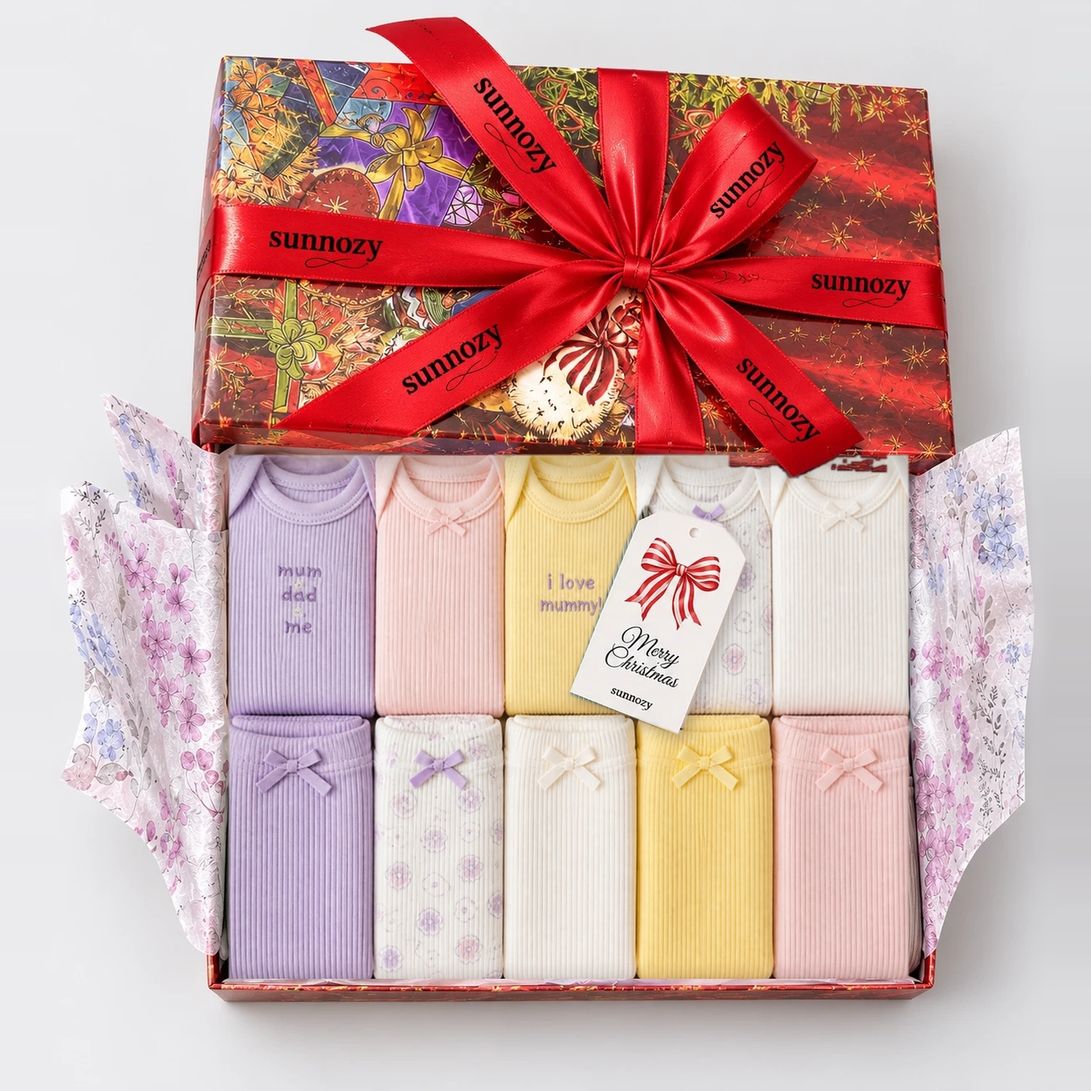
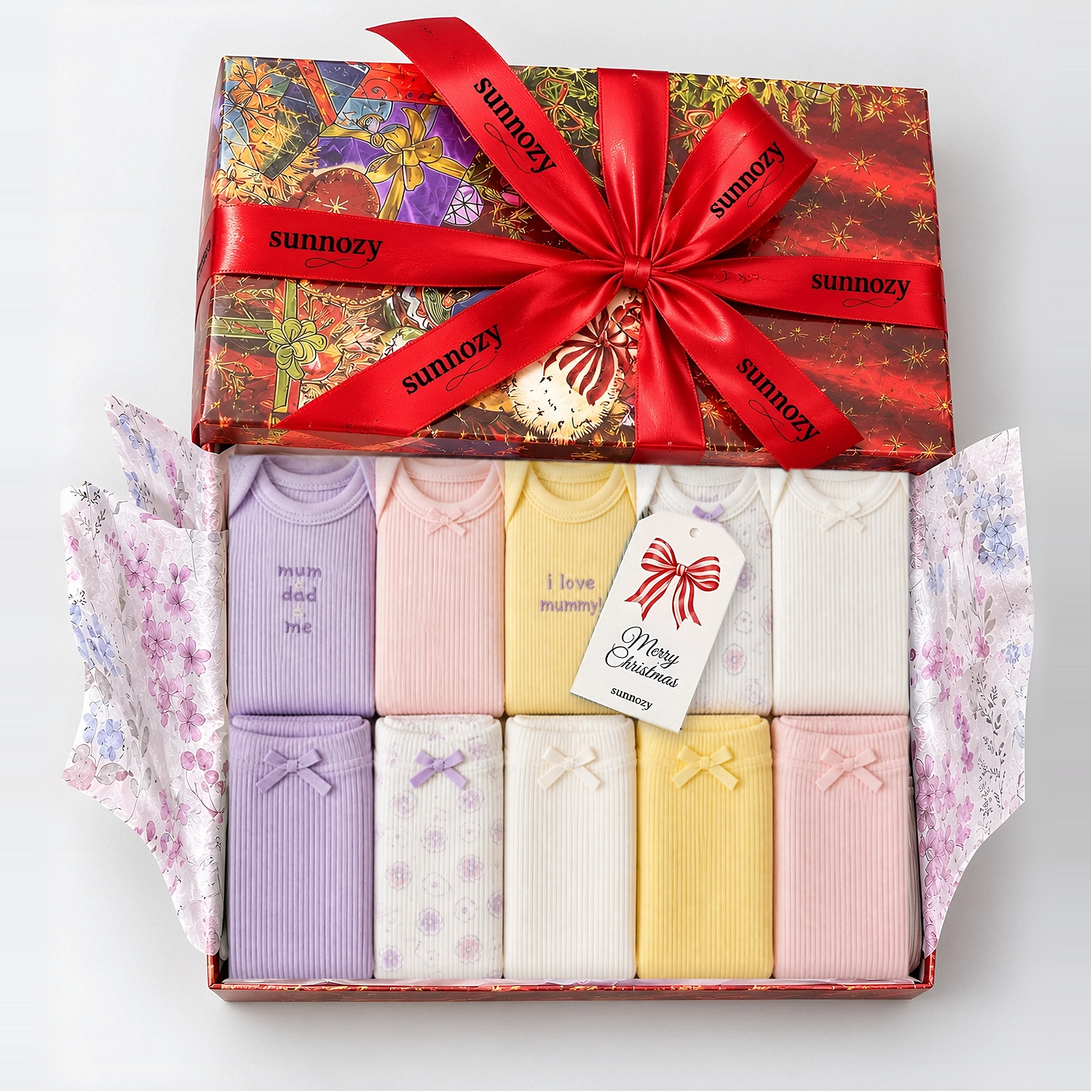
Rote Box: Vorlage 2x scharf, Deckelkante und Bandende sauber, Lovely Little Girl
Claude-Session: https://claude.ai/code/session_01Mcsz2CcqhytaxPLftYR6o2

diff --git a/sunnozy-content/tools/make_rote_box.py b/sunnozy-content/tools/make_rote_box.py
@@ -53,10 +53,13 @@ def inhalt_einsetzen(basis, inhalt):
     ref = np.asarray(basis).astype(int); r, g, b = ref[..., 0], ref[..., 1], ref[..., 2]
     over = np.zeros((H, W), np.float32)
     over[:, :x0 + round(6 * f)] = 1; over[:, round(1036 * f):] = 1
-    band = ((r > 120) & (r - g > 60) & (r - b > 50)).astype(np.uint8) * 255
+    band = ((r > 175) & (r - g > 115) & (r - b > 100)).astype(np.uint8) * 255   # nur das helle Satinband, nicht der dunklere Deckelrand
     band = np.asarray(Image.fromarray(band).filter(ImageFilter.MaxFilter(2 * round(1.5 * f) + 1))) > 0
-    reg = np.zeros_like(band); reg[round(530 * f):round(600 * f), round(820 * f):round(1010 * f)] = True
+    reg = np.zeros_like(band); reg[round(538 * f):round(580 * f), round(860 * f):round(992 * f)] = True
     over[band & reg] = 1
+    # Deckelunterkante verläuft schräg: links y≈543, rechts y≈568 (Original-Massstab); alles darüber ist Deckel
+    xs_ = np.arange(W) / f; kante = (543 + (xs_ - 213) / (1047 - 213) * 25) * f
+    over[np.arange(H)[:, None] < kante[None, :]] = 1
     om = Image.fromarray((over * 255).astype(np.uint8)).filter(ImageFilter.GaussianBlur(1.0 * f))
     out = Image.composite(basis, out, om)
     return out
